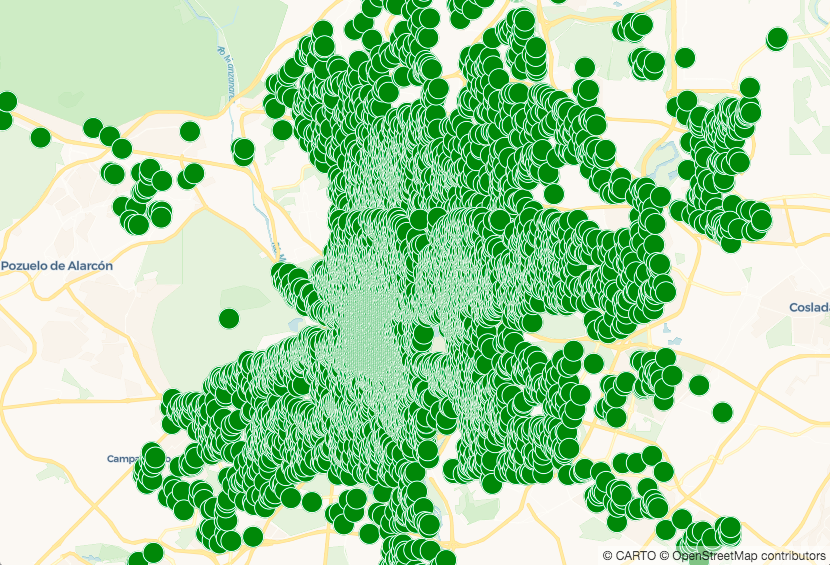
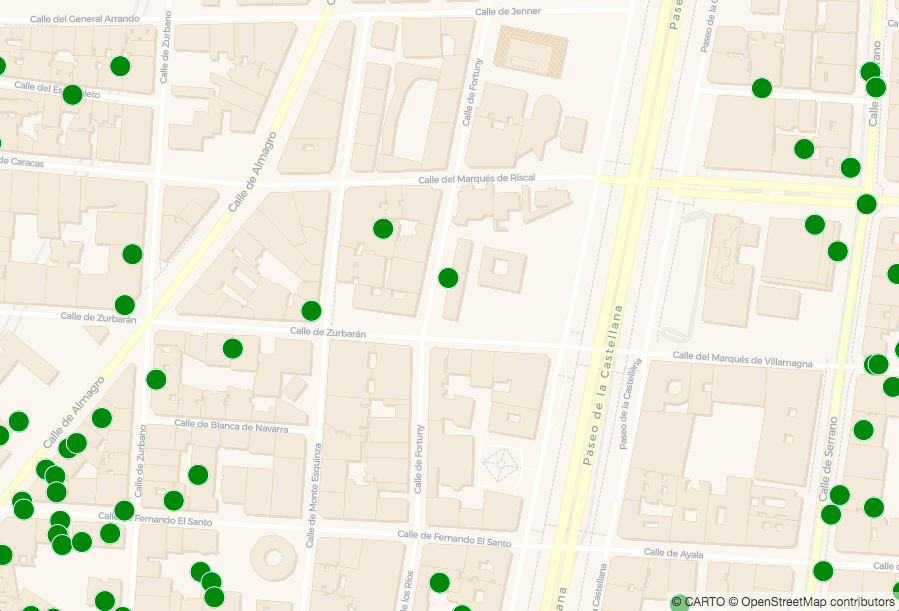
updating image & adding guide links in section 1

diff --git a/training-v2/01-getting-started.md b/training-v2/01-getting-started.md
@@ -7,7 +7,8 @@
 ___
 
 ## Getting Started
-*Take the next steps to set up a basic CARTO VL map & view it in your browser.*
+*In this section we're going to create a basic CARTO VL map. Take the next steps to set up a basemap and data layer, & view them in your browser.*
+
 *For more help check out our Developer Center's Getting Started documentation [here](https://carto.com/developers/carto-vl/guides/getting-started/).*
 
 ### Create a Basic HTML Template
@@ -152,14 +153,16 @@ We need an HTML element for JavaScript to draw our map in.
     *Now you should see this:*
    
     ![basemap-only](images/training-v2-01-bmapOnly.png)
+
+    To see another example of the steps above, check [this Basic setup guide](https://carto.com/developers/carto-vl/guides/getting-started/#basic-setup).
     
 ### Define the User
 
-To add other layers on top of the basemap we need access to CARTO datasets. In this example we will use [public](https://carto.com/help/building-maps/privacy-settings-for-protecting-maps-and-data/) data from a CARTO account.
+To add other layers on top of the basemap we need access to CARTO datasets. In this example we will use a CARTO account's [public](https://carto.com/help/building-maps/privacy-settings-for-protecting-maps-and-data/) dataset of Madrid rental listings.
 
 Because data privacy is important at CARTO, authentication is required. We use api keys for that. Find out more about how CARTO authentication works [here](https://carto.com/developers/fundamentals/authorization/). 
 
-In this step we will define a user account to get data from, and specify the API key that gives us account access.
+In this step we will [define a user](https://carto.com/developers/carto-vl/guides/getting-started/#define-user) account to get data from, and specify the API key that gives us account access.
 
 8. Add this code block beneath `map.addControl(nav, 'top-left');`
 
@@ -176,7 +179,7 @@ In this step we will define a user account to get data from, and specify the API
 
 ### Define the Source
 
-Now that we have access to a CARTO account we can use it's data in this map by defining a `source`. 
+Now that we have access to a CARTO account we can use it's data in this map by [defining a `source`](https://carto.com/developers/carto-vl/guides/getting-started/#create-source). 
 
 CARTO VL provides a few ways to bring data into your map that we will demonstrate in the next section. One of those methods gets an entire dataset by name:
 
@@ -184,7 +187,7 @@ CARTO VL provides a few ways to bring data into your map that we will demonstrat
 
     `const source = new carto.source.Dataset('madrid_listings');`
 
-    * You can add more than once source to a map.
+    * You can add more than one source to a map.
       * Make sure to give each source `const` a unique name
 
 ### Define the Viz
@@ -195,13 +198,13 @@ This data won't show up on the map until we tell the browser how to render it. W
 
     `const viz = new carto.Viz();`
 
-    * When the `Viz object` is empty like this, our system will apply default styles.
+    * When the [Viz object](https://carto.com/developers/carto-vl/guides/getting-started/#create-viz-object) is empty like this, our system will apply default styles.
     * If you are using multiple sources, you need to create a separate Viz object for each one.
       * Make sure the Viz object `const` are named uniquely.
 
 ### Define the Layer
 
-Now we can create a new map layer using the data source and style definitions:
+Now we can [create a new map layer](https://carto.com/developers/carto-vl/guides/getting-started/#create-map-layer) using the data source and style definitions:
 
 11. Add this beneath the viz definition:
 
@@ -213,7 +216,7 @@ Now we can create a new map layer using the data source and style definitions:
 
 ### Add the Layer to the Map
 
-12. Add the layer to the map object this way:
+12. [Add the layer](https://carto.com/developers/carto-vl/guides/getting-started/#add-map-layer) to the map object this way:
 
     `layer.addTo(map);`
 
@@ -225,7 +228,7 @@ Now we can create a new map layer using the data source and style definitions:
 
 ### Start Playing with the Visualization
 
-13. Let's change the default style by adding our own style rules. 
+13. Let's change the default style by [adding our own style rules](https://carto.com/developers/carto-vl/guides/getting-started/#defining-a-custom-style-for-the-viz-object). 
 
     CARTO VL offers powerful data-driven styling with expressions, which we will cover later. For now we can make simple marker size and color changes by adding properties to the Viz object:
 
@@ -248,7 +251,7 @@ Now we can create a new map layer using the data source and style definitions:
     * CARTO uses two types of Visualization API's to define our Viz properties: String and JavaScript. Learn more about those [here](https://carto.com/developers/carto-vl/guides/style-with-expressions/#the-string-and-javascript-visualization-apis).
       * The back-ticks we're using inside the Viz function indicate we're using the String Visualization API in this map.
 
-    At this point your code shoult look like this:
+    At this point your code should look like this:
 
     ```
     <!DOCTYPE html>
@@ -307,6 +310,10 @@ Now we can create a new map layer using the data source and style definitions:
     </html>
     ```
 
-    Now when you save the latest changes and refresh, the map should look like this:
+    Now when you save the latest changes and refresh, you should see larger green markers representing your points.
+
+    *One of the benefits of using CARTO VL is that you can use fractional zoom levels. We modified the map object's zoom level to 16.2, then refreshed to see this:*
 
     ![basic-style](images/training-v2-01-basicStyle.png)
+
+    For another code example of a basic map, check [this section](https://carto.com/developers/carto-vl/guides/getting-started/#all-together) of our Developer Center guide.
